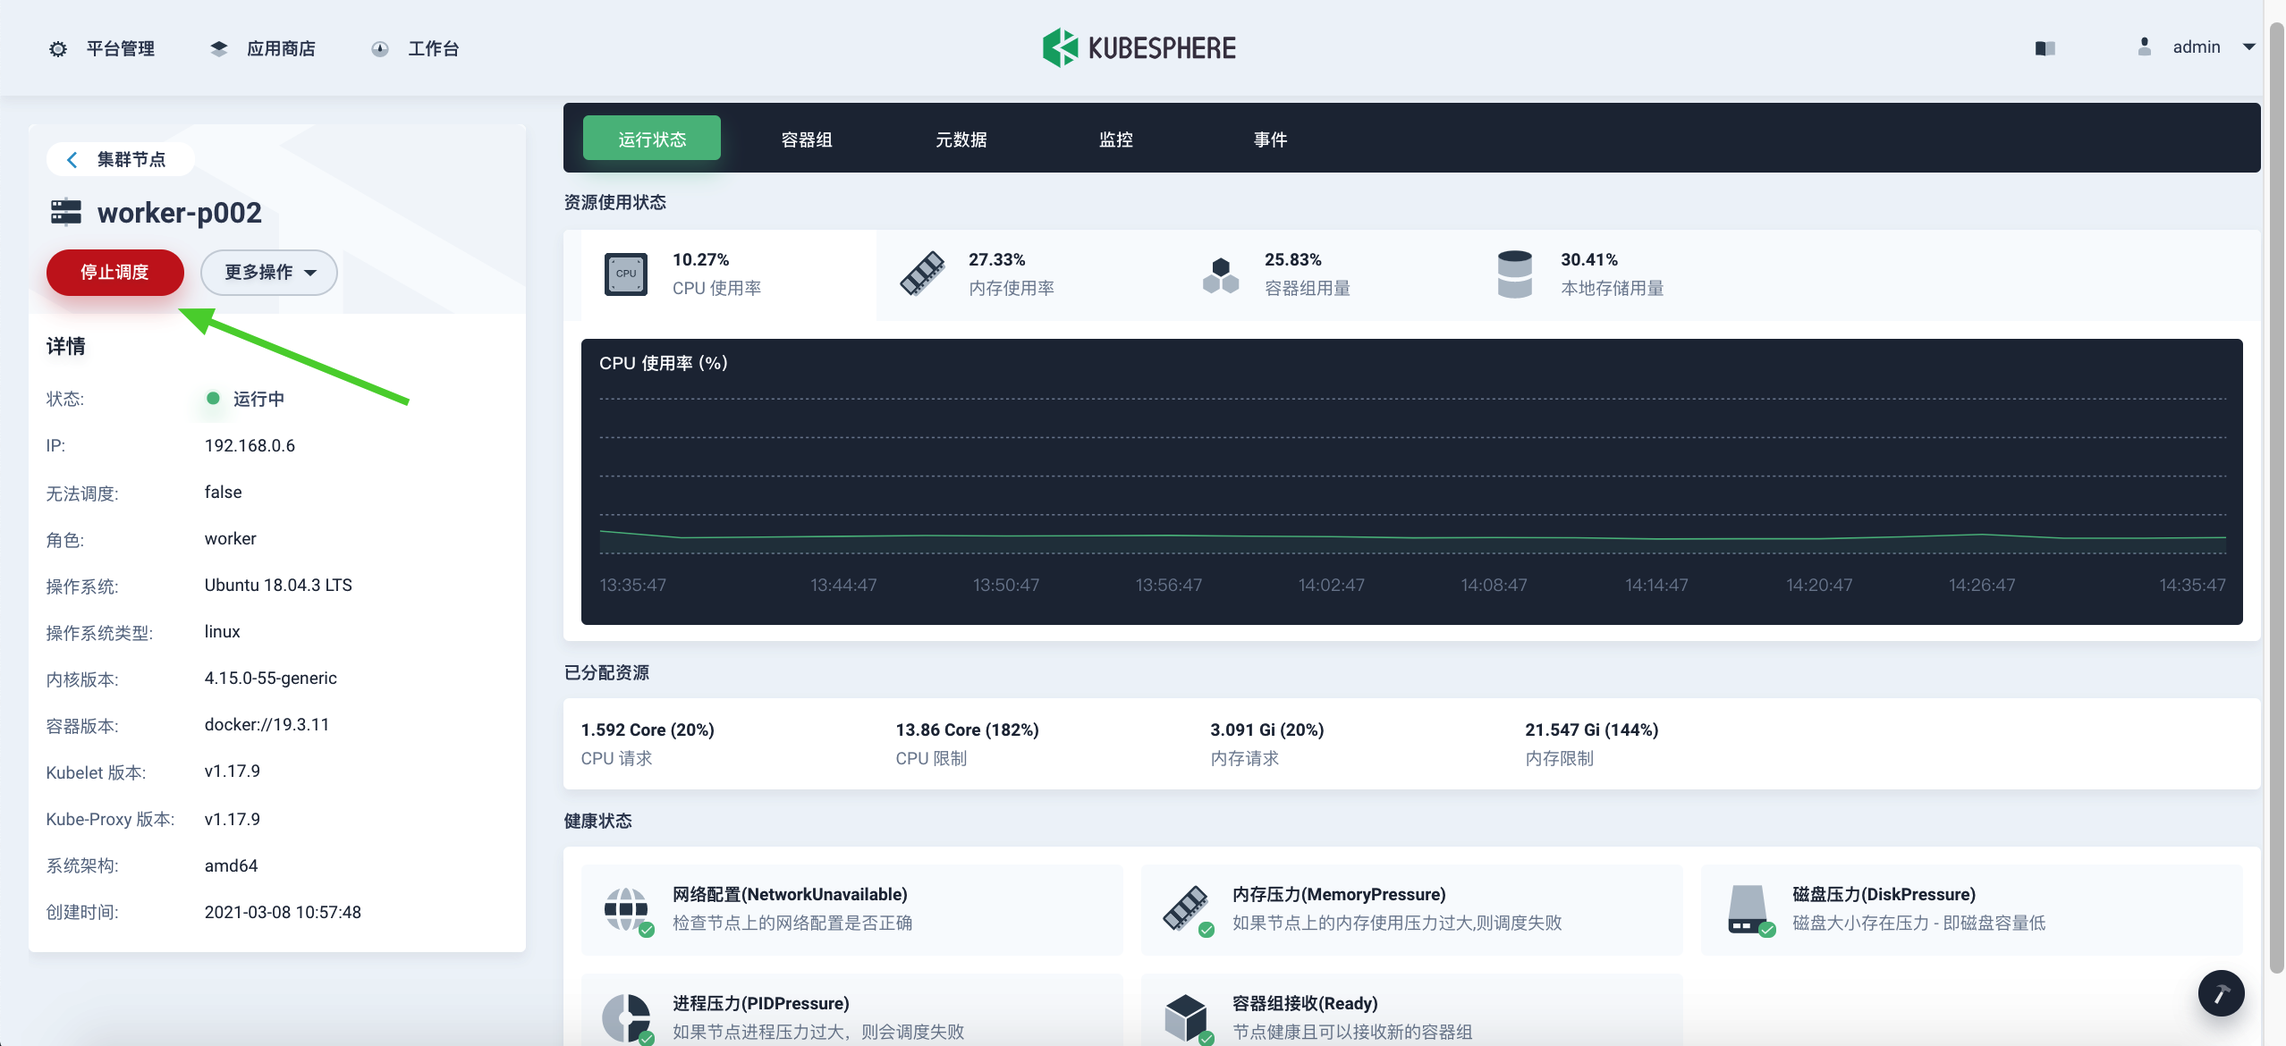
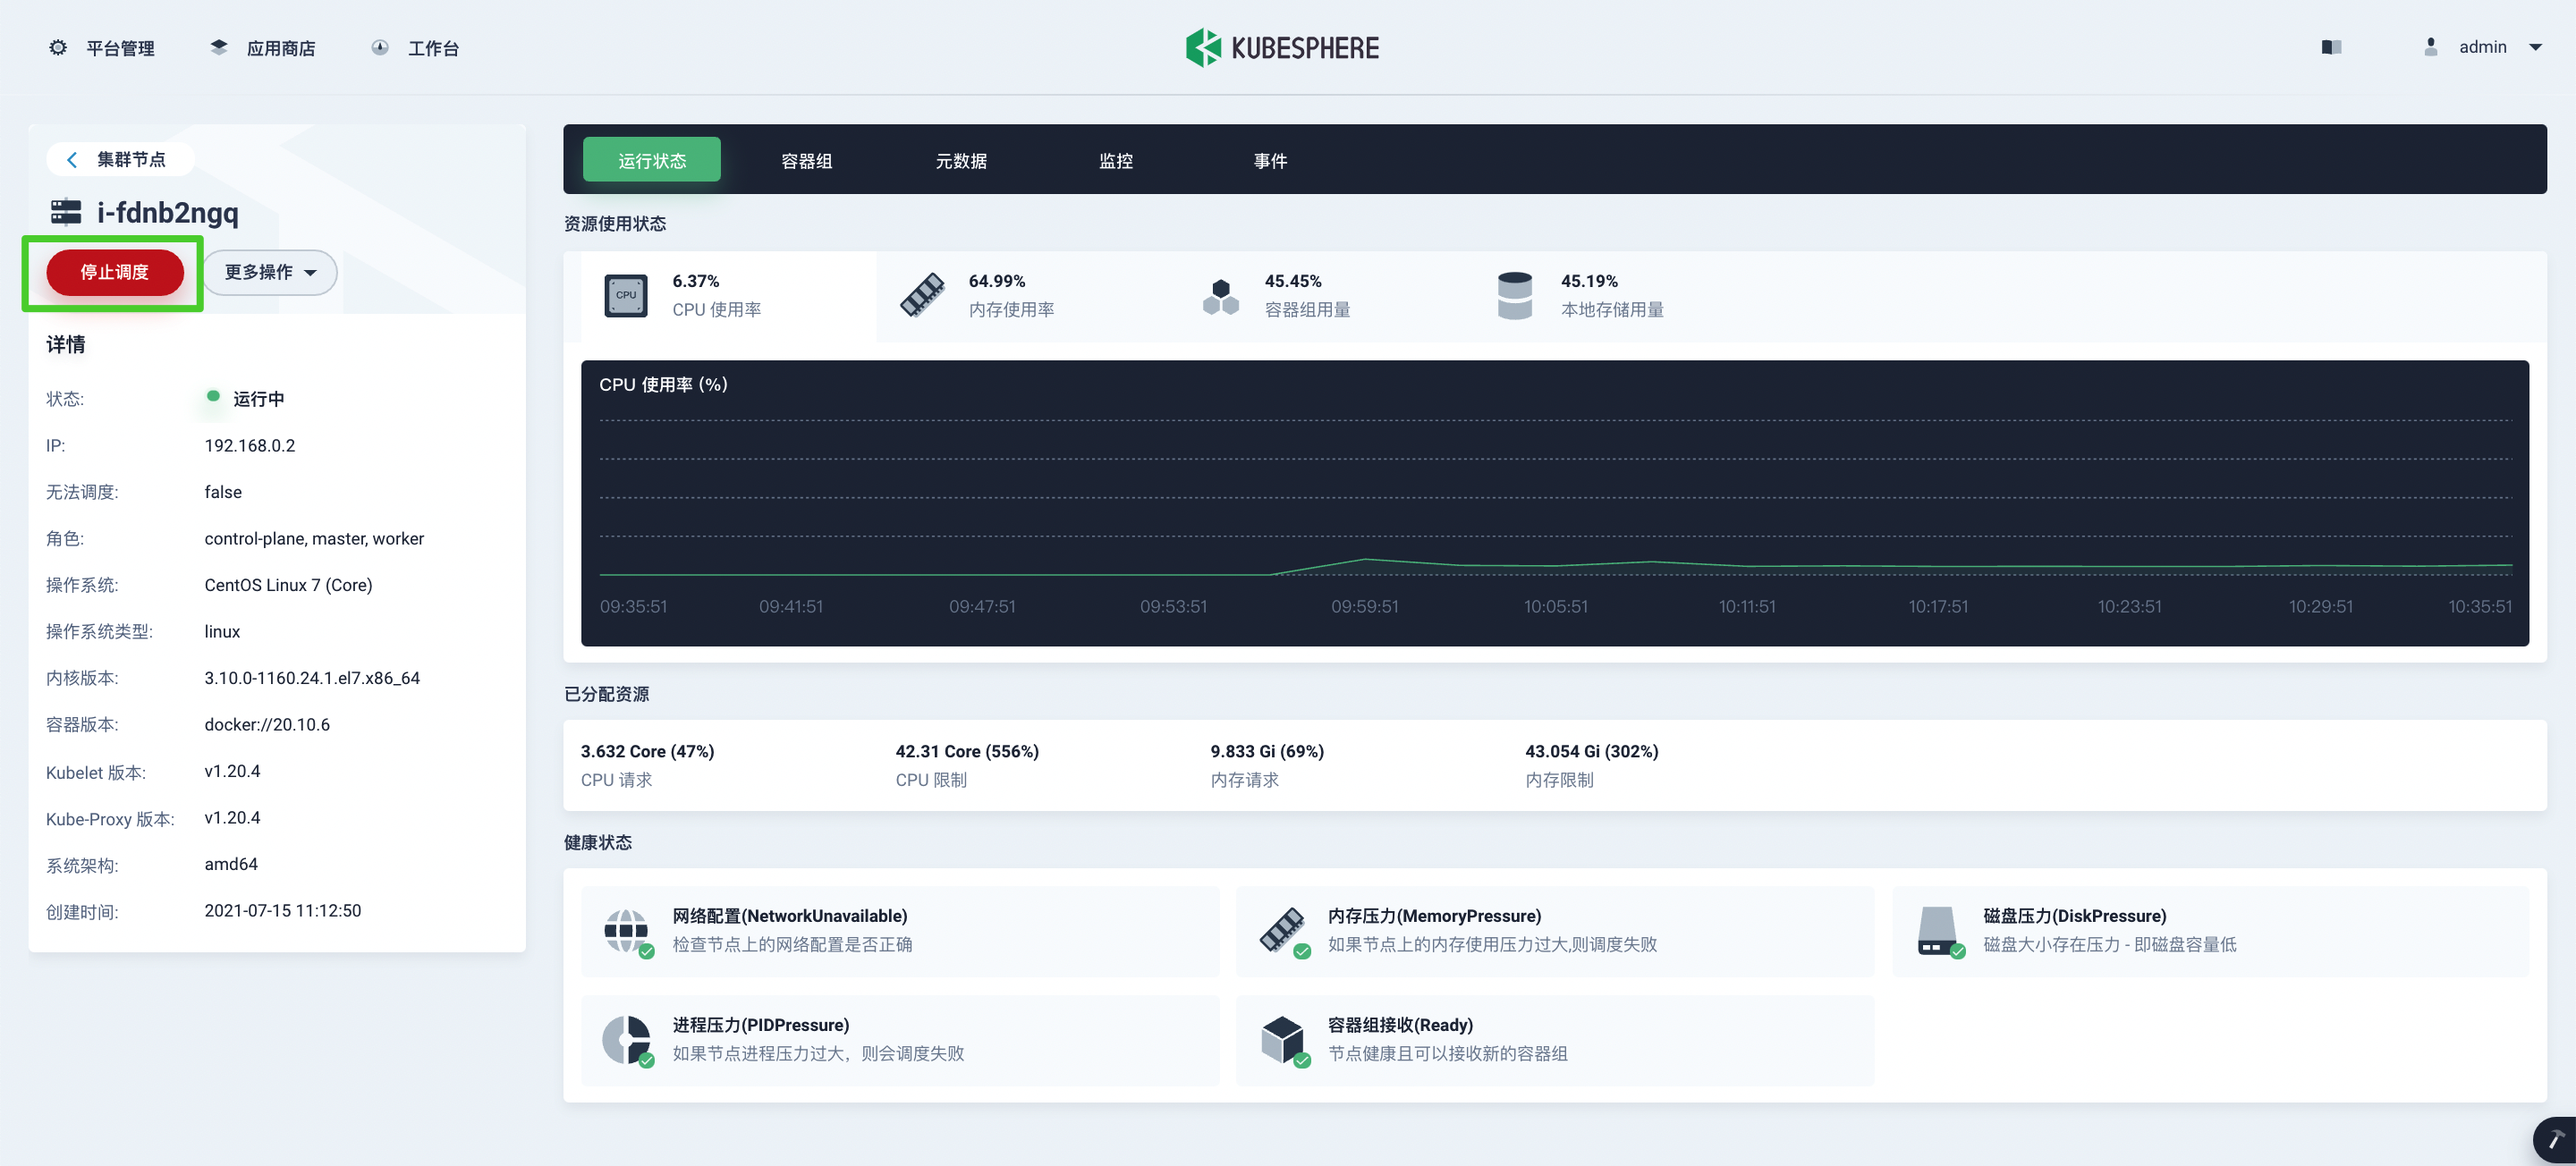
Update docs: Remove nodes

diff --git a/content/en/docs/installing-on-linux/cluster-operation/remove-nodes.md b/content/en/docs/installing-on-linux/cluster-operation/remove-nodes.md
@@ -10,9 +10,9 @@ weight: 3620
 
 Marking a node as unschedulable prevents the scheduler from placing new Pods onto that node while not affecting existing Pods on the node. This is useful as a preparatory step before a node reboot or other maintenance.
 
-Log in to the console as `admin` and go to the **Cluster Management** page. To mark a node unschedulable, choose **Cluster Nodes** under **Nodes** from the left menu, find a node you want to remove from the cluster, and click **Cordon**. Alternatively, you can run the command `kubectl cordon $NODENAME` directly. See [Kubernetes Nodes](https://kubernetes.io/docs/concepts/architecture/nodes/) for more details.
+Log in to the console as `admin` and go to the **Cluster Management** page. To mark a node unschedulable, choose **Cluster Nodes** under **Node Management** from the left menu, find a node you want to remove from the cluster, and click **Cordon**. Alternatively, you can run the command `kubectl cordon $NODENAME` directly. See [Kubernetes Nodes](https://kubernetes.io/docs/concepts/architecture/nodes/) for more details.
 
-![cordon](/images/docs/installing-on-linux/add-and-delete-nodes/delete-nodes/cordon.jpg)
+![cordon](/images/docs/installing-on-linux/add-and-delete-nodes/delete-nodes/cordon.png)
 
 {{< notice note >}}
 

diff --git a/content/zh/docs/installing-on-linux/cluster-operation/remove-nodes.md b/content/zh/docs/installing-on-linux/cluster-operation/remove-nodes.md
@@ -10,7 +10,7 @@ weight: 3620
 
 将节点标记为不可调度可防止调度程序将新的 Pod 放置到该节点上，同时不会影响该节点上的现有 Pod。作为节点重启或者其他维护之前的准备步骤，这十分有用。
 
-以 `admin` 身份登录控制台，访问**集群管理**页面。若要将节点标记为不可调度，从左侧菜单中选择**节点管理**下的**集群节点**，找到想要从集群中删除的节点，点击**停止调度**按钮。或者，直接执行命令 `kubectl cordon $NODENAME`。有关更多详细信息，请参见 [Kubernetes 节点](https://kubernetes.io/docs/concepts/architecture/nodes/)。
+以 `admin` 身份登录控制台，访问**集群管理**页面。若要将节点标记为不可调度，从左侧菜单中选择**节点管理**下的**集群节点**，找到想要从集群中删除的节点，点击**停止调度**。或者，直接执行命令 `kubectl cordon $NODENAME`。有关更多详细信息，请参见 [Kubernetes 节点](https://kubernetes.io/docs/concepts/architecture/nodes/)。
 
 ![cordon](/images/docs/zh-cn/installing-on-linux/add-and-delete-nodes/delete-nodes/cordon.png)
 
